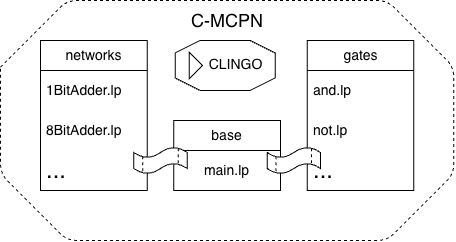
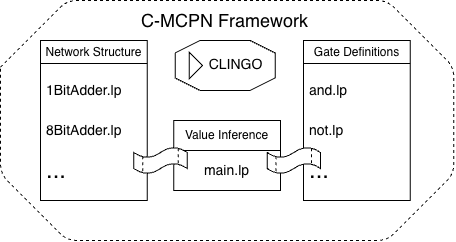
down to 11 pages!

diff --git a/logical_networks_paper/tex_files/sections/background.tex b/logical_networks_paper/tex_files/sections/background.tex
@@ -2,18 +2,19 @@
 Our work is related to the merging of ANN technology with more efficient Answer Set Programming languges. In this section we will provide a brief background on both subjects, motivating our work on C-MCPN.
 
 \subsection{Artificial Neural Networks (ANNs)}
-ANNs were originally inspired by the structure and function of biological neruons. Their basic building blocks, the artificial neurons, can be traced back to the work of McCulloch and Pitts in the 1940s \parencite{McCulloch1943}. These early models mimicked the behavior of biological neurons by using a simple thresholding function that determines whether a neuron will fire or not. The name for the C-MCPN was inspired by this early work, though its implementation is not a pure McCulloch-Pitts model. Instead, it uses a more generalized version of neuron with two functions: an excitation function $g(\vec{x})$ and an activation function $f(g(\vec{x}))$, which can be seen in Figure \ref{art_neuron}.
+ANNs were originally inspired by the structure and function of biological neruons. Their basic building blocks, the artificial neurons, can be traced back to the work of McCulloch and Pitts in the 1940s \parencite{McCulloch1943}. These early models mimicked the behavior of biological neurons by using a simple thresholding function that determines whether a neuron will fire or not. The name for the C-MCPN was inspired by this early work, though its implementation is not a pure McCulloch-Pitts model.
+% Instead, it uses a more generalized version of a neuron with two functions: an excitation function $g(\vec{x})$ and an activation function $f(g(\vec{x}))$, which can be seen in Figure \ref{art_neuron}.
 
-\begin{figure}[h]
-    \centering
-    \includegraphics[width=0.4\textwidth]{figures/TLU.png}
-    \caption{A diagram of a 2-input artificial neuron}
-    \label{art_neuron}
-\end{figure}
+% \begin{figure}[h]
+%     \centering
+%     \includegraphics[width=0.4\textwidth]{figures/TLU.png}
+%     \caption{A diagram of a 2-input artificial neuron}
+%     \label{art_neuron}
+% \end{figure}
 
-These neurons can be connected together to form a network, allowing for the processing of complex data and the learning of patterns through training. The structure of these networks can vary widely, from simple knowledge graphs to feedforward networks to more complex recurrent architectures \parencite{Zhou2020}. For our work, the feedforward neural network was chosen as the basis because of its simplicity and wide use in the field. These consist of layers of interconnected neurons that process data in a single forward direction \parencite{Goodfellow2016}. An example of a small network of this type can be seen in Figure \ref{neural_network}. These models can learn through a training process where weights are adjusted based on error, but notably their underlying structure is very similar to the original McCulloch-Pitts model.
+The neurons can be connected together to form a network, whose structures can vary widely from simple knowledge graphs to feedforward networks to more complex recurrent architectures \parencite{Zhou2020}. For our work, the feedforward neural network was chosen for its simplicity and wide use in the field. It consists of layers of interconnected neurons that process data in a single forward direction \parencite{Goodfellow2016}, shown in Figure \ref{neural_network}. These models can learn through a training process where weights are adjusted based on error, but notably their underlying structure is similar to that of the original McCulloch-Pitts model.
 
-ANNs have been widely adapted in various applications, from image recognition to natural language processing like the transformer-based models such as BERT and GPT \parencite{Vaswani2017,Devlin2019,Brown2020}. However, it is no secret that they have come with significant drawbacks. Among these is the issue of resource use, discussed further in Section \ref{env_impacts}. This is far from the only concern, but it is the one that most motivates our work.
+% ANNs have been widely adapted in various applications like image recognition and natural language processing such as the transformer-based GPT \parencite{Brown2020}. Despite this, the environmental impacts are significant and have been discussed further in Section \ref{env_impacts}. This is far from the only concern, but it is the one that most motivates our work.
 
 \begin{figure}[h]
     \centering
@@ -29,13 +30,17 @@ The introduction of big data, chiefly by scraping the broader Internet, changed 
 As an example, consider the cost to train a single model, ChatGPT-3. According to \textcite{DeVries2023}, GPT-3 reported around 1.3 million kWh \emph{just} to be trained. With some quick, back-of-the-envelope calculations, we can put this into perspective. In 2022 the average American household used approximately 10,791 kWh \parencite{EIA2024}, and by dividing these out we find that the model's energy use was proportional to:
 \[1{,}300{,}000~\text{kWh} \times \frac{1~\text{household}}{10{,}791~\text{kWh/year}} \approx 120.5~\text{households}.\]
 
-Similarly, we could produce a rough, \emph{lower bound} of how much water may have been used for training. A thermoelectric power station can use approximately 43.8 L/kWh of water \parencite{Li2023}. That would put the \emph{indirect} water costs of training GPT-3 at approximately 56,940,000 L, approximated by:
-\[1{,}300{,}000~\text{kWh} \times 43.8~\frac{\text{L}}{\text{kWh}} = 56{,}940{,}000~\text{L}\]
+% Similarly, we could produce a rough, \emph{lower bound} of how much water may have been used for training. A thermoelectric power station can use approximately 43.8 L/kWh of water \parencite{Li2023}. That would put the \emph{indirect} water costs of training GPT-3 at approximately 56,940,000 L, approximated by:
+% \[1{,}300{,}000~\text{kWh} \times 43.8~\frac{\text{L}}{\text{kWh}} = 56{,}940{,}000~\text{L}\]
 
-Given that an adult male averages approximately 4L of fresh water \parencite{IOM2005}, that number represents sufficient water to sustain a lower bound of approximately 39,000 adults for a year:
-\[56{,}940{,}000~\text{L} \times \frac{1~\text{adult}}{4~\text{L/day} \times 365~\text{days}} \approx 39{,}000~\text{adults}\]
+% Given that an adult male averages approximately 4L of fresh water \parencite{IOM2005}, that number represents sufficient water to sustain a lower bound of approximately 39,000 adults for a year:
+% \[56{,}940{,}000~\text{L} \times \frac{1~\text{adult}}{4~\text{L/day} \times 365~\text{days}} \approx 39{,}000~\text{adults}\]
 
-That amount is sufficient to provide fresh water to a city of approximately the size of Brighton, CO for a year. Though these calculations include \emph{only} the indirect costs and are remarkably overly-simplified, we hope that it puts into perspective how the technology is already unsustainable. This highlights the dire need for more efficient, sustainable AI and ML technologies \parencite{DeVries2023}, an open problem yet to be solved.
+% That amount is sufficient to provide fresh water to a city of approximately the size of Brighton, CO for a year. Though these calculations include \emph{only} the indirect costs and are remarkably overly-simplified, we hope that it puts into perspective how the technology is already unsustainable. This highlights the dire need for more efficient, sustainable AI and ML technologies \parencite{DeVries2023}, an open problem yet to be solved.
+
+% That amount is sufficient to provide fresh water to a city of approximately the size of Brighton, CO for a year. Though these calculations include \emph{only} the indirect costs and are remarkably overly-simplified, we hope that it puts into perspective how the technology is already unsustainable. This highlights the dire need for more efficient, sustainable AI and ML technologies \parencite{DeVries2023}, an open problem yet to be solved.
+
+Though this is a remarkably over-simplified example, it puts into perspective how the technology is already unsustainable. This highlights the dire need for more efficient, sustainable AI and ML technologies \parencite{DeVries2023}, an open problem yet to be solved.
 
 \subsection{Answer Set Programming (ASP)}
 

diff --git a/logical_networks_paper/tex_files/sections/implementation.tex b/logical_networks_paper/tex_files/sections/implementation.tex
@@ -10,14 +10,12 @@ For node reorganization in the editor we used a modified version of the Sugiyama
 
 \subsection{C-MCPN Framework}
 
-From what the authors found in the literature, the C-MCPN Framework is a novel approach to neural network representation within a logical programming paradigm like ASP. The networks themselves have relatively simple representations that can be leveraged to create complex operations. The framework, which can be seen in Figure \ref{cmcpn_framework}, uses three main program types, all of which are contained in the \texttt{C-MCPN/} directory of the project:
-\begin{itemize}
-    \item \textbf{Gate Definition Programs}
-    \item \textbf{Network Structure Programs}
-    \item \textbf{Value Inference Program}
-\end{itemize}
-
-The content in the gate definitions program defines the behavior of each gate, but every default gate we included also has a special header used to send meta-information to the C-MCPN Editor.
+From what the authors found in the literature, the C-MCPN Framework is a novel approach to neural network representation within a logical programming paradigm like ASP. The networks themselves have relatively simple representations that can be leveraged to create complex operations. The framework, which can be seen in Figure \ref{cmcpn_framework}, uses three main program types, all of which are contained in the \texttt{C-MCPN/} directory of the project. The content in the gate definitions program defines the behavior of each gate, but every default gate we included also has a special header used to send meta-information to the C-MCPN Editor.
+% \begin{itemize}
+%     \item \textbf{Gate Definition Programs}
+%     \item \textbf{Network Structure Programs}
+%     \item \textbf{Value Inference Program}
+% \end{itemize}
 
 \begin{figure}[h]
     \centering
@@ -32,20 +30,13 @@ The \texttt{app/} directory of the project contains the source code for the C-MC
 
 User created networks are saveable to JSON and ASP format, and loadable from JSON format. This facilitates creation of complex ANNs, and saving the network to ASP format allows direct use of the C-MCPN Framework from the terminal instead of the IDE.
 
-A screenshot of the editor can be seen in Figure \ref{cmcpn_editor}, showcasing the sample 1-bit adder network. A closer look at the sample network can be seen in Figure \ref{1_bit_adder}.
+A screenshot of the editor can be seen in Figure \ref{cmcpn_editor}, showcasing the sample 1-bit adder network.
 
 \begin{figure}[h]
     \centering
     \includegraphics[width=0.6\textwidth]{figures/C-MCPN Editor 0\_0\_1.png}
-    \caption{A screenshot of the C-MCPN Editor, showing a sample 1-bit adder network.}
+    \caption{Screenshot of the C-MCPN Editor, showing a sample 1-bit adder network.}
     \label{cmcpn_editor}
-\end{figure}
-
-\begin{figure}[h]
-    \centering
-    \includegraphics[width=0.4\textwidth]{figures/1-bit adder.png}
-    \caption{A screenshot of a 1-bit adder network in the C-MCPN Editor.}
-    \label{1_bit_adder}
 \end{figure}
 
 \subsection{AI-Assisted Development}

diff --git a/logical_networks_paper/tex_files/sections/methodology.tex b/logical_networks_paper/tex_files/sections/methodology.tex
@@ -6,23 +6,25 @@ Combining the efficiency of ASP languages with the representational power of ANN
 
 To build and test the framework the illustrative domain of digital logic for hardware development was selected. Its simplicity and familiarity make it an ideal domain for experimentation. 
 
-For our example network, a 1-bit adder seen in Figure \ref{1_bit_adder}, we used neurons with three types of well established logic gates: AND, OR, and XOR. In Table \ref{definition_table} we show the McCulloch-Pitts definitions of these gates, and their truth tables. Using a combination of these and more gates, one is able to construct complex logical operations\footnote{An elegant and simple proof of Clingo's Turing completeness falls out of the C-MCPN Framework.}.
+For our example network, a 1-bit adder seen in Figure \ref{1_bit_adder}, we used neurons with three types of well established logic gates: AND, OR, and XOR. In Table \ref{definition_table} we show the neuron definitions of these gates, and their truth tables. Using a combination of these and more gates, one is able to construct complex logical operations\footnote{An elegant and simple proof of Clingo's Turing completeness falls out of the C-MCPN Framework.}.
 
 \begin{table}[h]
-\caption{McCulloch-Pitts Neuron Definitions and Truth Tables.}
+% \caption{McCulloch-Pitts Neuron Definitions and Truth Tables.}
+\caption{Neuron Definitions and Truth Tables.}
 \label{definition_table}
 \begin{center}
 \fbox{
 \begin{tabular}{|cc|c|cc|c|cc|c|}
     \hline
     \multicolumn{3}{|c|}{\textbf{AND}} & \multicolumn{3}{c|}{\textbf{OR}} & \multicolumn{3}{c|}{\textbf{XOR}} \\
-    \multicolumn{3}{|c|}{$g(\vec{x}) = x_1 \cdot x_2,\ \theta = 1$} & \multicolumn{3}{c|}{$g(\vec{x}) = x_1 + x_2,\ \theta = 1$} & \multicolumn{3}{c|}{$g(\vec{x}) = |x_1 - x_2|,\ \theta = 1$} \\[1em]
+    \multicolumn{3}{|c|}{$g(\vec{x}) = x_1 \cdot x_2$} & \multicolumn{3}{c|}{$g(\vec{x}) = x_1 + x_2$} & \multicolumn{3}{c|}{$g(\vec{x}) = |x_1 - x_2|$} \\[1em]
+    % \multicolumn{3}{|c|}{$g(\vec{x}) = x_1 \cdot x_2,\ \theta = 1$} & \multicolumn{3}{c|}{$g(\vec{x}) = x_1 + x_2,\ \theta = 1$} & \multicolumn{3}{c|}{$g(\vec{x}) = |x_1 - x_2|,\ \theta = 1$} \\[1em]
 
-    \hdashline
-    \multicolumn{2}{|c}{} & \multicolumn{3}{c}{Activation: } & \multicolumn{4}{c|}{$f(\vec{x}) = \begin{cases} 0 & \text{if } g(\vec{x}) < \theta,\\ 1 & \text{if } g(\vec{x}) \geq \theta. \end{cases}$} \\[1em]
-    \hdashline
+    % \hdashline
+    % \multicolumn{2}{|c}{} & \multicolumn{3}{c}{Activation: } & \multicolumn{4}{c|}{$f(\vec{x}) = \begin{cases} 0 & \text{if } g(\vec{x}) < \theta,\\ 1 & \text{if } g(\vec{x}) \geq \theta. \end{cases}$} \\[1em]
+    % \hdashline
 
-    \multicolumn{3}{|c|}{AND} & \multicolumn{3}{c|}{OR} & \multicolumn{3}{c|}{XOR} \\
+    % \multicolumn{3}{|c|}{AND} & \multicolumn{3}{c|}{OR} & \multicolumn{3}{c|}{XOR} \\
     $x_1$ & $x_2$ & $f(\vec{x})$ & $x_1$ & $x_2$ & $f(\vec{x})$ & $x_1$ & $x_2$ & $f(\vec{x})$ \\
     \hline
     T & T & T & T & T & T & T & T & F \\
@@ -34,6 +36,13 @@ For our example network, a 1-bit adder seen in Figure \ref{1_bit_adder}, we used
 }
 \end{center}
 \end{table}
+
+\begin{figure}[h]
+    \centering
+    \includegraphics[width=0.4\textwidth]{figures/1-bit adder.png}
+    \caption{A screenshot of a 1-bit adder network in the C-MCPN Editor.}
+    \label{1_bit_adder}
+\end{figure}
 
 \subsection{Design Approach}
 

diff --git a/logical_networks_paper/tex_files/main.tex b/logical_networks_paper/tex_files/main.tex
@@ -14,9 +14,11 @@
 % Does the first line need to be toned down?
 % People seem to be making these sorts of society-changing claims.
 \begin{abstract}
-  As Artificial Intelligence and generative AI continue to engage the public in ways that mirror other critical advances (e.g., the PC and smartphone revolutions as well as the broader Internet) public interest has turned more and more towards applications of the underlying technologies and architectures that power them. While machine learning technologies like LLMs have a profound capacity to integrate AI into modern life, the underlying artificial neural network technologies present significant concern for both short and long-term sustainability: data center footprint, waste heat and noise, and infrastructure/resources for energy and clean water.
+  As Artificial intelligence and generative AI continue to engage the public in additionally profound ways, there is growing interest in developing more efficient underlying technologies. In this paper we explore the use of efficient Answer Set Programming (ASP) languages to model and conduct inference over artificial neural network (ANN) architectures. This combination of technologies is not trivial, so we also introduce the C-MCPN (Clingo McCulloch-Pitts Network) Framework and Editor to support our work in generating more efficient neural networks. The C-MCPN Framework provides a novel representation for encoding ANN structure and inference in ASP, while the C-MCPN Editor is a working, accessible tool that makes this representation practical to construct, visualize, and experiment with. Together, these establish a foundation for future work exploring whether ASP-based learning models can offer meaningful efficiency gains over traditional ANN implementations, an open question we are actively pursuing.
 
-  At the same time, advanced declarative languages have made remarkable headway towards AI solutions are considerably more efficient. In particular, Answer Set Programming languages are designed to solve computationally difficult (e.g., NP-Complete and NP-Hard) problems with limited available resources. In this paper we outline how these languages can be used to model artificial neural network architectures, like those used in LLMs, in the modeling language Clingo. We also introduce the C-MCPN (Clingo McCulloch-Pitts Network) Framework and Editor--a tool largely written in Python and Clingo. C-MCPN was developed to support our work in generating more efficient neural networks by providing a graphical interface to work with these models, using Clingo as a back-end for both representation and inference. 
+  % As Artificial Intelligence and generative AI continue to engage the public in ways that mirror other critical advances (e.g., the PC and smartphone revolutions as well as the broader Internet) public interest has turned more and more towards applications of the underlying technologies and architectures that power them. While machine learning technologies like LLMs have a profound capacity to integrate AI into modern life, the underlying artificial neural network technologies present significant concern for both short and long-term sustainability: data center footprint, waste heat and noise, and infrastructure/resources for energy and clean water.
+
+  % At the same time, advanced declarative languages have made remarkable headway towards AI solutions are considerably more efficient. In particular, Answer Set Programming languages are designed to solve computationally difficult (e.g., NP-Complete and NP-Hard) problems with limited available resources. In this paper we outline how these languages can be used to model artificial neural network architectures, like those used in LLMs, in the modeling language Clingo. We also introduce the C-MCPN (Clingo McCulloch-Pitts Network) Framework and Editor--a tool largely written in Python and Clingo. C-MCPN was developed to support our work in generating more efficient neural networks by providing a graphical interface to work with these models, using Clingo as a back-end for both representation and inference. 
 \end{abstract}
 
 \input{tex_files/sections/introduction}
@@ -34,4 +36,5 @@
 
 % take out Nossig reference from bib? it was being used in the first paragraph of the intro
 % Got rid of Gori2005, Rudin2019, Brown2020 in ANNs background section
-
+% Got rid of devlin and vaswani and brown in background
+% Commented out Li and IOM

diff --git a/logical_networks_paper/tex_files/sections/conclusion.tex b/logical_networks_paper/tex_files/sections/conclusion.tex
@@ -1,2 +1,6 @@
 \section{Conclusion}
-In this paper, we presented the C-MCPN Framework and Editor, demonstrating that Answer Set Programming can be used to represent and conduct inference over artificial neural network structures, specifically McCulloch-Pitts Networks. Our contribution is twofold: a novel two-layered representation for encoding ANN structure and inference in ASP, and a working, accessible tool that makes this representation practical to construct, visualize, and experiment with. Together, these establish a foundation for future work exploring whether ASP-based learning models can offer meaningful efficiency gains over traditional ANN implementations, an open question we are actively pursuing.
+
+The growing resource demands of modern AI motivate the search for more efficient alternatives, and Answer Set Programming presents a promising, underexplored direction. The C-MCPN Framework and Editor are a first step toward this goal, providing the representational foundation needed to build and study ASP-based neural networks. As we continue this work, our hope is that ASP's natural efficiency advantages will translate into meaningful gains for the learning systems built on top of it.
+
+
+% In this paper, we presented the C-MCPN Framework and Editor, demonstrating that Answer Set Programming can be used to represent and conduct inference over artificial neural network structures, specifically McCulloch-Pitts Networks. Our contribution is twofold: a novel two-layered representation for encoding ANN structure and inference in ASP, and a working, accessible tool that makes this representation practical to construct, visualize, and experiment with. Together, these establish a foundation for future work exploring whether ASP-based learning models can offer meaningful efficiency gains over traditional ANN implementations, an open question we are actively pursuing.

diff --git a/logical_networks_paper/tex_files/preamble.tex b/logical_networks_paper/tex_files/preamble.tex
@@ -66,7 +66,7 @@
 
 \usepackage{biblatex}
 
-% Added packages by David Gonzalez
+% Added packages by David Gonzalez Sua
 \usepackage{arydshln}
 \usepackage{fancyvrb}
 